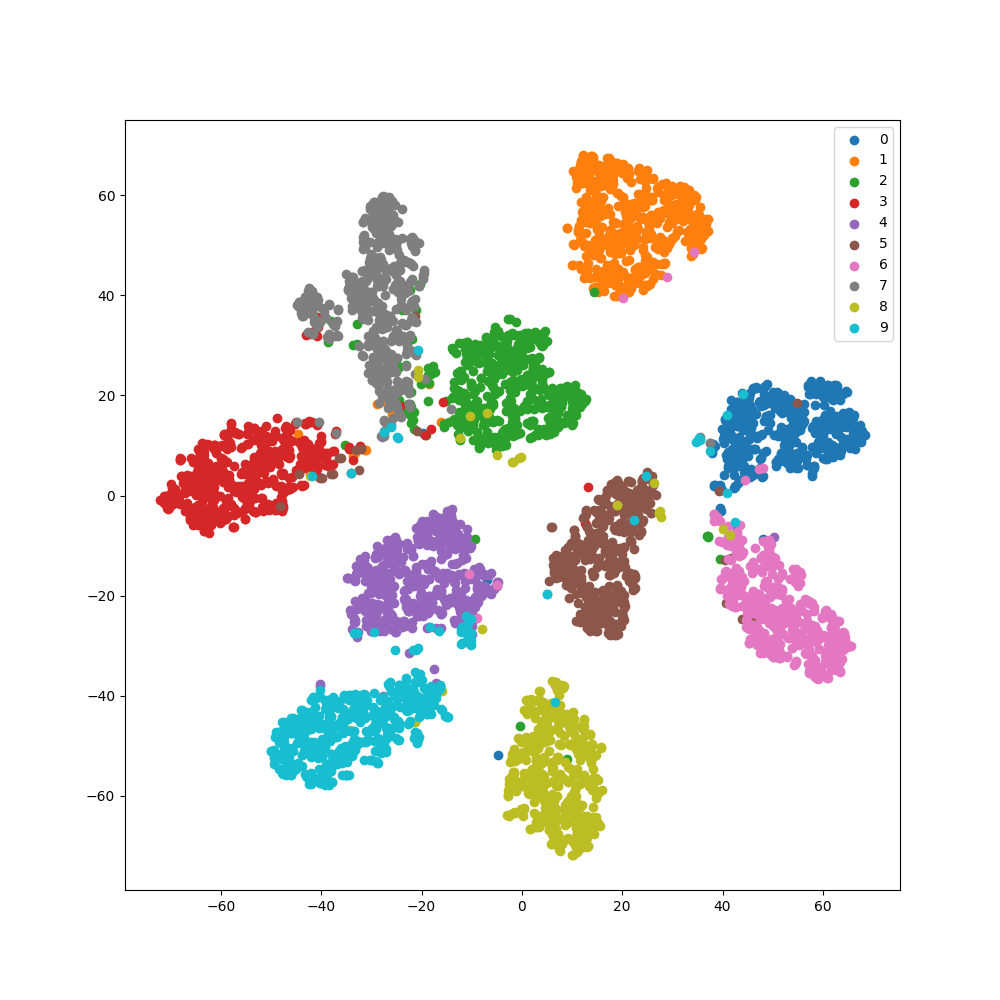
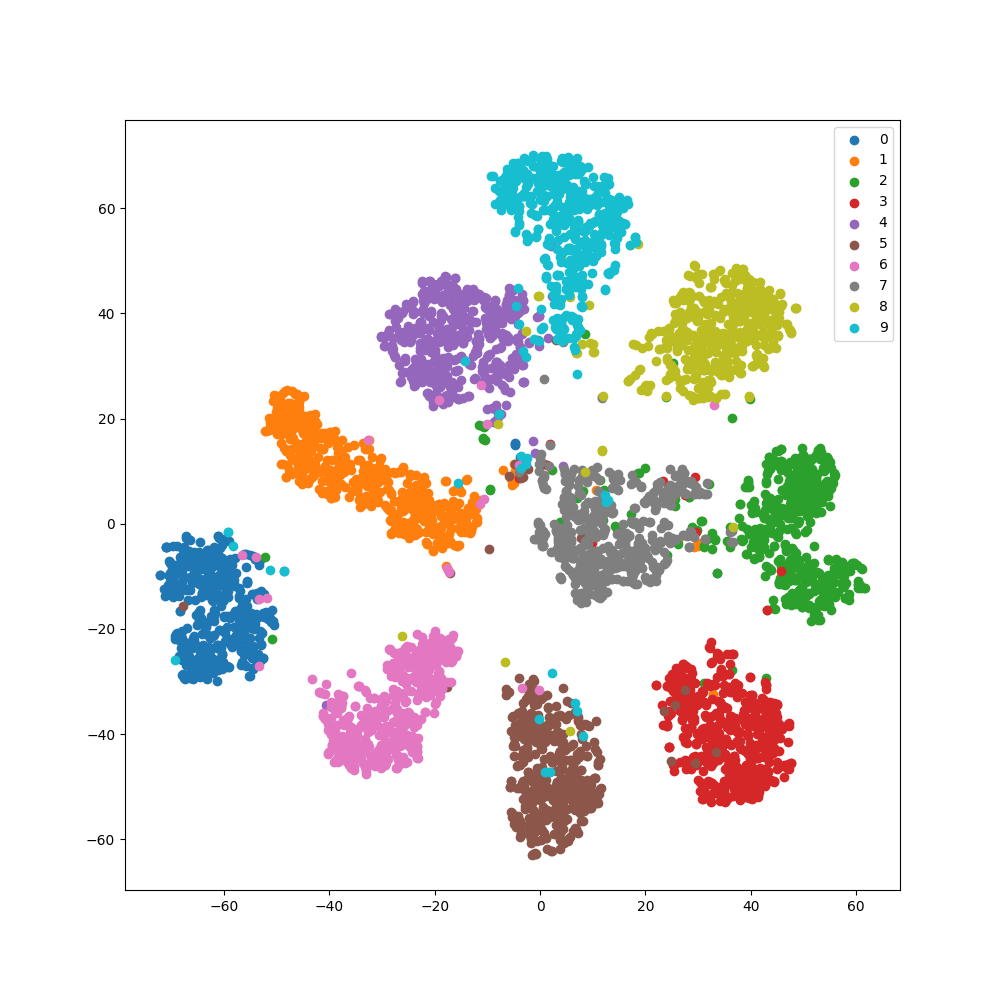
M17 actions test

diff --git a/tests/test_data.py b/tests/test_data.py
@@ -1,9 +1,25 @@
 from torch.utils.data import Dataset
+import torch
+from mlops_cookie_project1.data import corrupt_mnist
+from tests import _PATH_DATA
+import pytest
+import os
 
-from mlops_cookie_project1.data import MyDataset
+data_file_path = os.path.join(_PATH_DATA, "raw")
+
+
+@pytest.mark.skipif(not os.path.exists(data_file_path), reason="Data files not found")
 
 
 def test_my_dataset():
-    """Test the MyDataset class."""
-    dataset = MyDataset("data/raw")
-    assert isinstance(dataset, Dataset)
+    train, test = corrupt_mnist()
+    assert len(train) == 30000, f"Expected train dataset length 30000, but got {len(train)}"
+    assert len(test) == 5000, f"Expected test dataset length 5000, but got {len(test)}"
+    for dataset in [train, test]:
+        for x, y in dataset:
+            assert x.shape == (1, 28, 28), f"Expected input shape (1, 28, 28), but got {x.shape}"
+            assert y in range(10), f"Expected target in range 0-9, but got {y}"
+    train_targets = torch.unique(train.tensors[1])
+    assert (train_targets == torch.arange(0,10)).all(), "Train targets do not match expected range 0-9"
+    test_targets = torch.unique(test.tensors[1])
+    assert (test_targets == torch.arange(0,10)).all(), "Test targets do not match expected range 0-9"

diff --git a/tests/test_model.py b/tests/test_model.py
@@ -1,0 +1,20 @@
+from mlops_cookie_project1.model import MyAwesomeModel
+import torch
+import pytest
+
+
+@pytest.mark.parametrize("batch_size", [32, 64])
+def test_model(batch_size: int) -> None:
+    model = MyAwesomeModel()
+    x = torch.randn(batch_size, 1, 28, 28)
+    y = model(x)
+    assert y.shape == (batch_size, 10), f"Expected output shape ({batch_size}, 10), but got {y.shape}"
+
+
+
+def test_error_on_wrong_shape():
+    model = MyAwesomeModel()
+    with pytest.raises(ValueError, match='Expected input to a 4D tensor'):
+        model(torch.randn(1,2,3))
+    with pytest.raises(ValueError, match='Expected each sample to have shape [1, 28, 28]'):
+        model(torch.randn(1,1,28,29))

diff --git a/src/mlops_cookie_project1/visualize.py b/src/mlops_cookie_project1/visualize.py
@@ -6,12 +6,12 @@ from sklearn.decomposition import PCA
 from sklearn.manifold import TSNE
 
 
-def visualize(model_checkpoint: str, figure_name: str = "embeddings.png") -> None:
+def visualize(model_checkpoint: str = "models/model.pth", figure_name: str = "embeddings.png") -> None:
     """Visualize model predictions."""
     model = MyAwesomeModel()
     model.load_state_dict(torch.load(model_checkpoint))
     model.eval()
-    model.fc = torch.nn.Identity()
+    model.fc1 = torch.nn.Identity()
 
     test_images = torch.load("data/processed/test_images.pt")
     test_target = torch.load("data/processed/test_target.pt")

diff --git a/tests/__init__.py b/tests/__init__.py
@@ -1,0 +1,4 @@
+import os
+_TEST_ROOT = os.path.dirname(__file__)  # root of test folder
+_PROJECT_ROOT = os.path.dirname(_TEST_ROOT)  # root of project
+_PATH_DATA = os.path.join(_PROJECT_ROOT, "data")  # root of data
